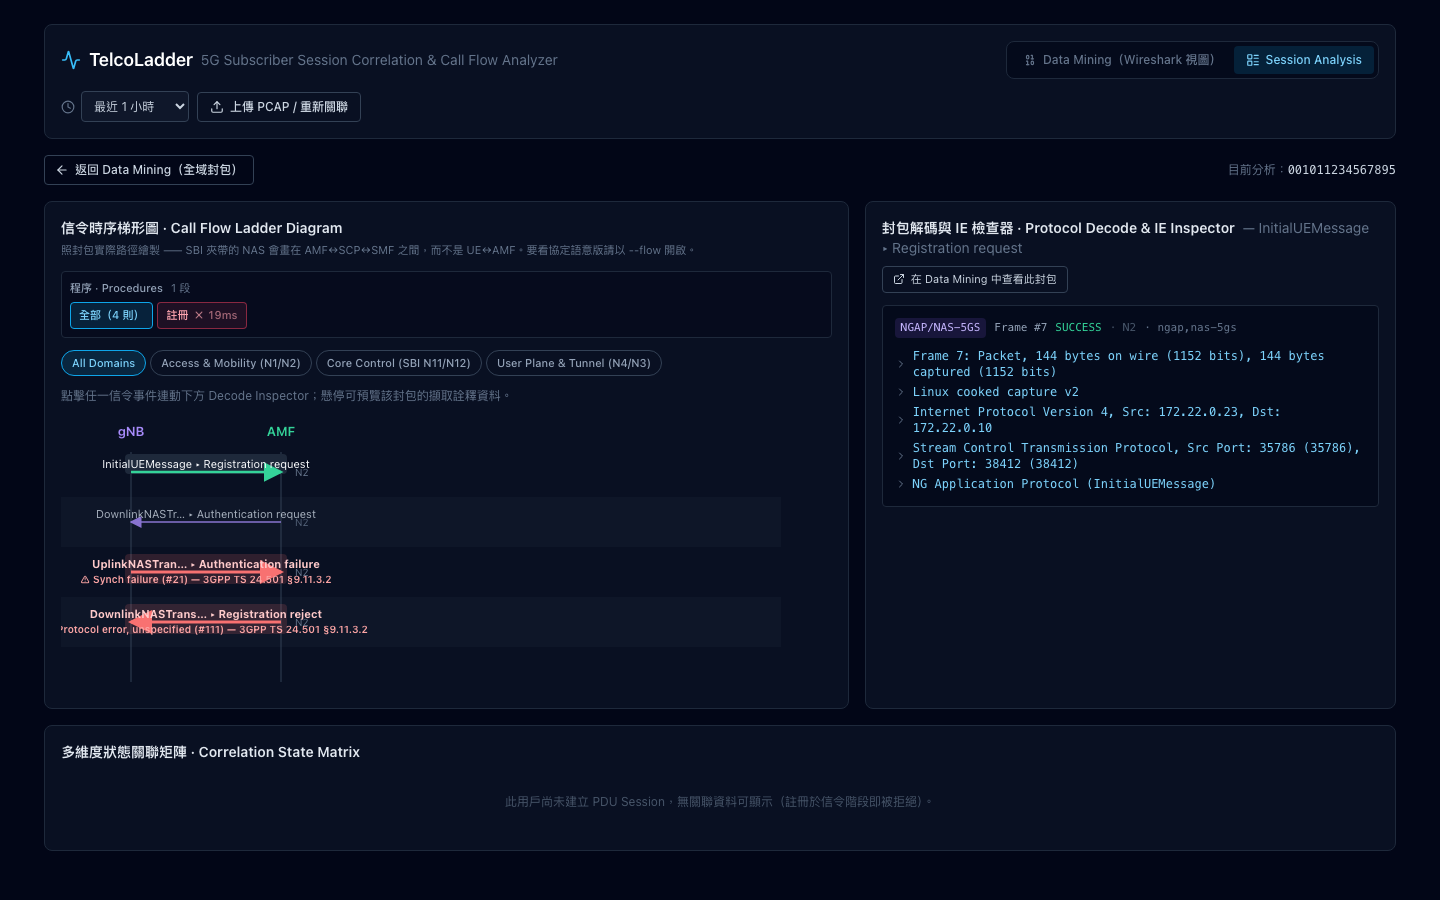
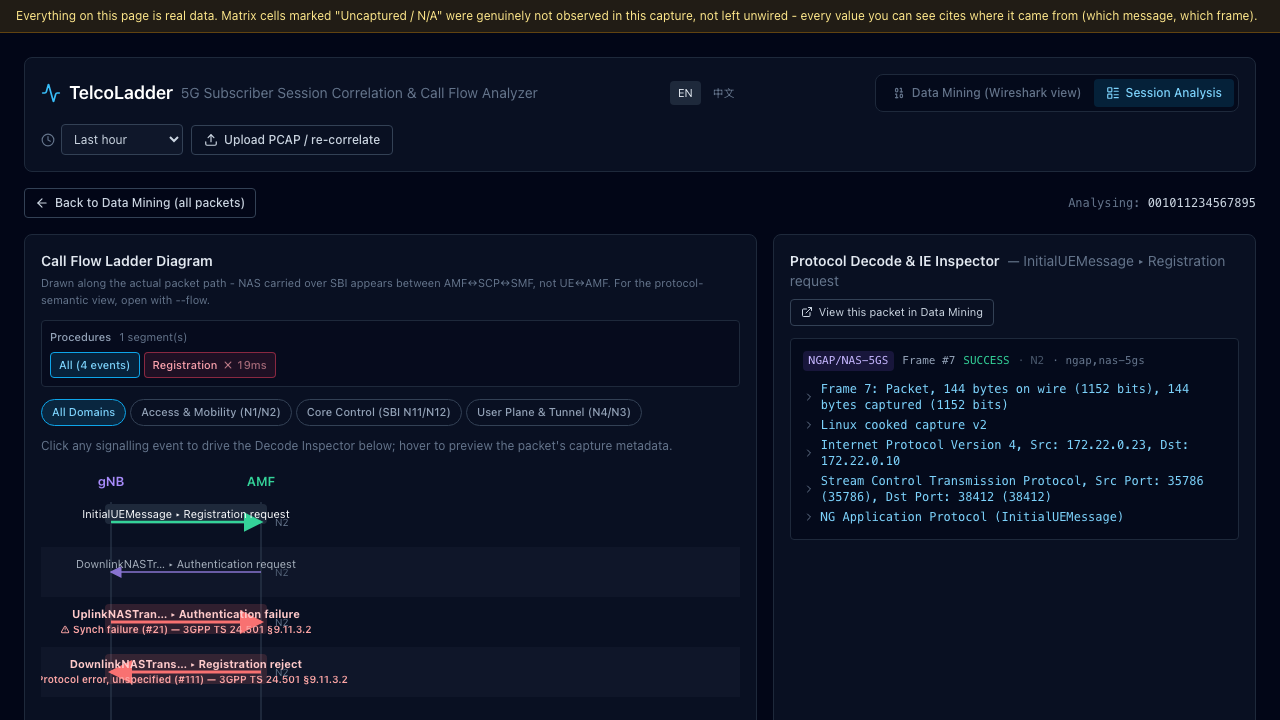
i18n Phase D: README, CONTRIBUTING, CLAUDE.md §7; T-I18N closed
README gains a Language section (--lang / TELCOLADDER_LANG / the
browser switch, and why the system locale is ignored). CONTRIBUTING's
Language section updated to the current state, with the procedure for
adding a user-facing string and the two traps (f-strings, _
rebinding).

CLAUDE.md gains §7 (appended; existing numbering untouched): the
three-layer mechanism in one table, four ways it fails silently, and
the deliberately untranslated scope. TODOS T-I18N closed, recording
each phase's guards and the two traps actually hit.

diff --git a/CONTRIBUTING.md b/CONTRIBUTING.md
@@ -108,17 +108,32 @@ child process and is skipped on Windows.
 
 ## Language
 
+Everything a user sees is **English by default, with a Traditional Chinese
+translation**: `--help`, the CLI's runtime summaries, API error strings, the
+landing page, and the browser interface. `--lang zh_TW`, `TELCOLADDER_LANG`,
+or the EN / 中文 switch in the browser header select it.
+
 `CLAUDE.md` and `docs/plugin-contract.md` are in Traditional Chinese — they are
-the maintainer's working notes and the place where design decisions are
-recorded with their reasons. `README.md`, this file and `--help` are in English.
+the maintainer's working notes and the place where design decisions are recorded
+with their reasons. Issues and pull requests in either language are fine.
 
-**Two user-facing surfaces are still Chinese**: the runtime summaries `analyze`
-prints (coverage, auto-decode, ciphered-NAS warnings) and the browser interface.
-That is a known inconsistency, not a choice — see `T-I18N` in `TODOS.md`. If it
-is the thing stopping you from using the tool, say so in an issue; that is the
-signal that would move it up the list.
+### Adding or changing a user-facing string
 
-Issues and pull requests in either language are fine.
+- **Python**: write the English text inside `_()` from `telcoladder.i18n`, and
+  add the Chinese to `telcoladder/translations/zh_tw.py`. Use `str.format`
+  placeholders (`_("Written to {path}").format(path=...)`) — **never an
+  f-string inside `_()`**, it expands before the lookup and the key never
+  matches. Never reuse `_` as a throw-away variable in a module that imports it
+  (`sid, _, action = ...` silently replaces the translation function with a
+  string). `tests/test_i18n.py` enforces all of this.
+- **Frontend**: write the English text inside `t()` from `web/src/i18n.ts`, add
+  the Chinese to the `zh_TW` table in the same file, and call `useLang()` in any
+  component that renders `t()` so a language switch re-renders it.
+  `tests/test_web_assets.py` enforces the catalog and rejects Chinese literals
+  outside the table.
+- Cause explanations (`plain`, `common_causes` in `data/causes/*.yaml`) are
+  **content**, not interface strings, and are currently Chinese — see
+  "Adding a cause code" above.
 
 ## Reporting a vulnerability
 

diff --git a/README.md b/README.md
@@ -143,7 +143,25 @@ telcoladder analyze capture.pcapng --no-frames         # drop packet numbers
 ```
 
 The diagram goes to stdout and the summary to stderr, so
-`telcoladder analyze x.pcapng > flow.mmd` gives you a clean file. GitHub, GitLab,
+`telcoladder analyze x.pcapng > flow.mmd` gives you a clean file.
+
+### Language
+
+Everything the tool says — `--help`, the analysis summary, error messages, the
+browser interface — is English by default and available in Traditional Chinese:
+
+```bash
+telcoladder analyze capture.pcapng --lang zh_TW
+export TELCOLADDER_LANG=zh_TW                    # or set it once
+```
+
+In the browser there is an **EN / 中文** switch in the header; the choice is
+remembered per browser. The tool deliberately ignores the system locale and the
+browser's `Accept-Language`: the same command on two machines should print the
+same words, because the output gets pasted into tickets.
+
+The Mermaid diagram itself is language-independent — cause names are the spec's
+own English, and clause citations are clause citations. GitHub, GitLab,
 Obsidian and Notion render Mermaid inline, so the `.mmd` pastes straight into an
 issue or an RCA document; `telcoladder serve` shows it rendered right now.
 
